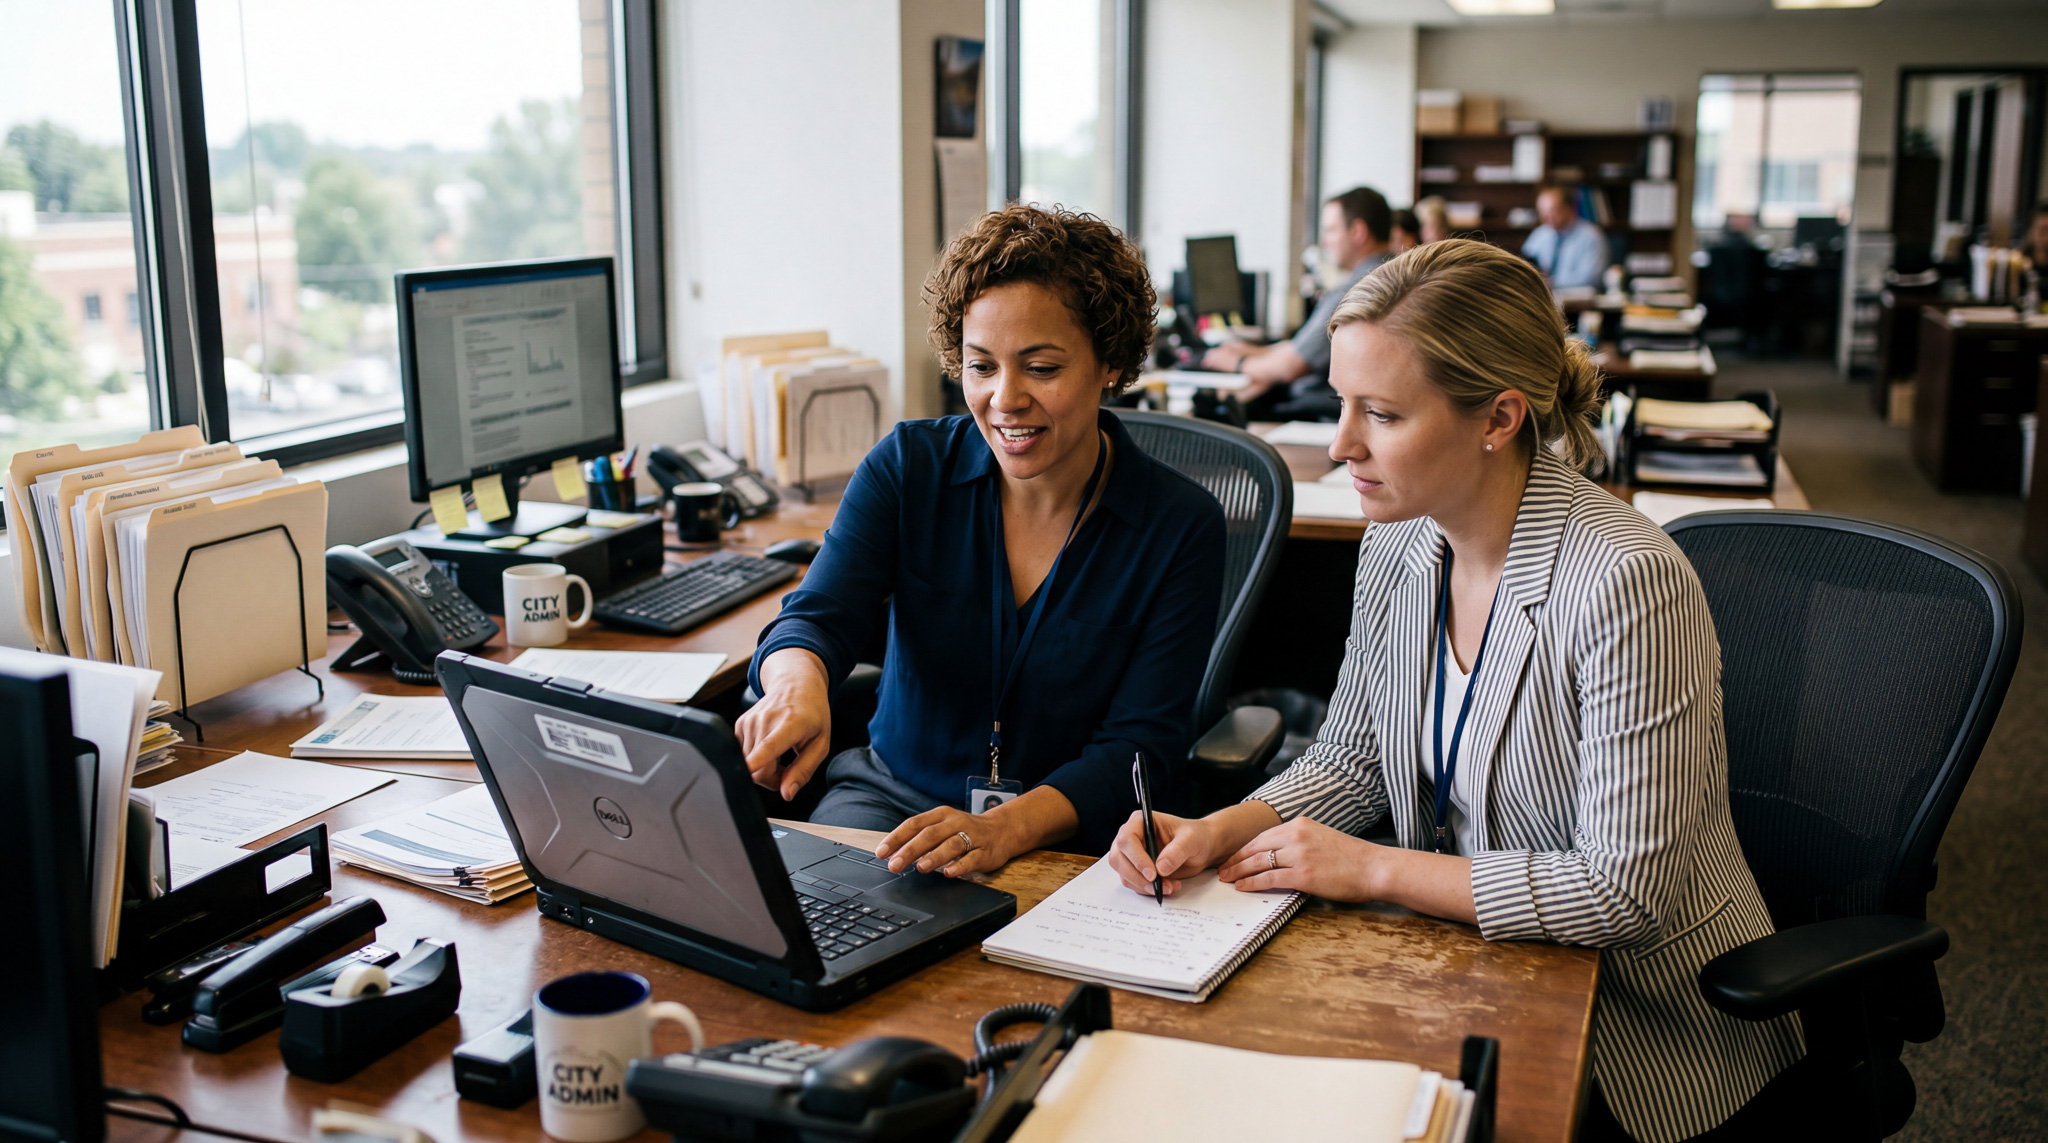
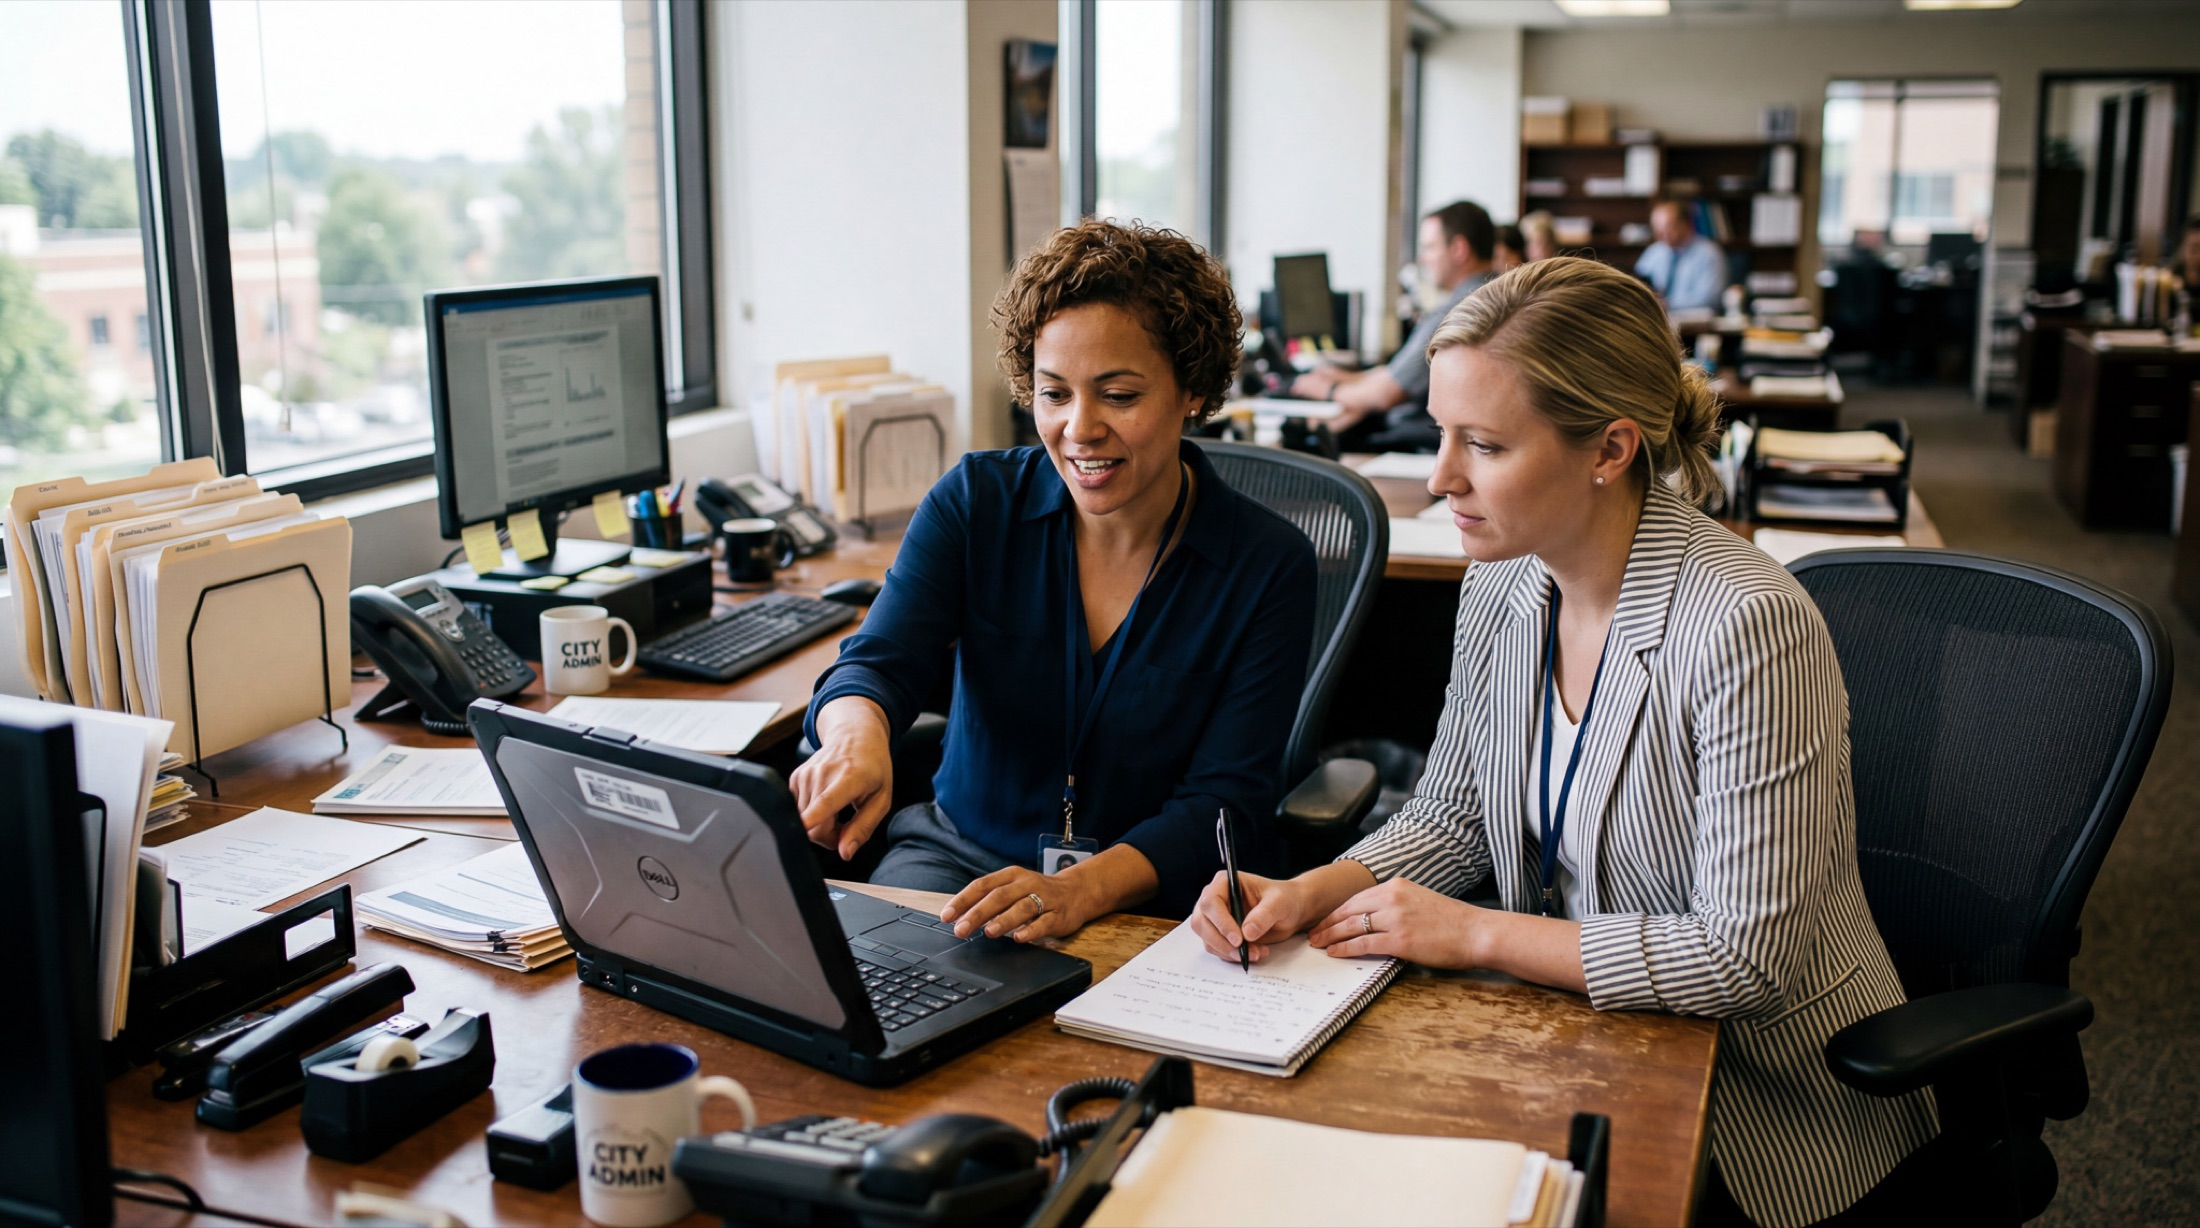
redesign(usecase): Vollbild-Motiv + kompakte Glas-Zeilen statt Großkacheln
„Wonach suchen Sie?" eröffnet die Thematik jetzt über ein Vollbild-Hintergrund-
motiv (dunkles Overlay); die 8 Use-Cases sind kompakte Glas-Zeilen (Icon +
Label + Pfeil, 2-spaltig) statt platzgreifender Kacheln → mehr Impact, weniger
Platzverbrauch.

Changed region(s): [[0.8438, 0.7655, 0.875, 0.8268]]

diff --git a/src/components/blocks/home/UseCaseEntry.tsx b/src/components/blocks/home/UseCaseEntry.tsx
@@ -1,3 +1,4 @@
+import Image from "next/image";
 import Link from "next/link";
 import { ArrowRight } from "lucide-react";
 
@@ -12,11 +13,10 @@ interface UseCaseEntryProps {
 }
 
 /**
- * Problem-/Use-Case-Einstieg als plakatives Bento-Grid.
- *
- * „Behörden suchen nicht nach einem Tooltyp, sondern nach einem Problem."
- * Große, klar abgegrenzte Kacheln mit Icon-Chip + Problem-Statement —
- * scanbar, fingerfreundlich, zielgruppengerecht proportioniert.
+ * Problem-/Use-Case-Einstieg — die Thematik wird groß über ein Vollbild-Motiv
+ * eröffnet; darüber kompakte, scanbare Glas-Zeilen (Icon + Problem-Statement)
+ * statt großer Kacheln. „Behörden suchen nach einem Problem, nicht nach einem
+ * Tooltyp."
  */
 export function UseCaseEntry({
   eyebrow,
@@ -25,49 +25,62 @@ export function UseCaseEntry({
   useCases,
 }: UseCaseEntryProps) {
   return (
-    <section className="container mx-auto px-4 sm:px-6 lg:px-10 py-12 lg:py-16">
-      <header className="max-w-2xl space-y-3 mb-8 lg:mb-10">
-        <div className="font-mono text-[11px] font-bold uppercase tracking-[0.18em] text-brand">
-          {eyebrow}
-        </div>
-        <h2
-          style={{ lineHeight: 1.05 }}
-          className="font-serif text-[clamp(28px,3.4vw,42px)] font-normal tracking-tight text-dark"
-        >
-          {title}
-        </h2>
-        {description && (
-          <p className="font-sans text-[16px] leading-[1.65] text-mid">
-            {description}
-          </p>
-        )}
-      </header>
+    <section className="relative isolate overflow-hidden">
+      {/* Vollbild-Motiv im Hintergrund */}
+      <Image
+        src="/brand/Images/magnific_two-municipal-employees-s_jSQglw9LD0.jpg"
+        alt=""
+        fill
+        sizes="100vw"
+        className="object-cover"
+        aria-hidden
+      />
+      <div aria-hidden className="absolute inset-0 bg-dark/72" />
 
-      <div className="grid gap-4 sm:grid-cols-2 lg:grid-cols-4">
-        {useCases.map((uc) => (
-          <Link
-            key={uc.label}
-            href={uc.href}
-            className="group flex flex-col justify-between gap-6 rounded-2xl border border-border bg-white p-5 lg:p-6 min-h-[140px] transition-colors hover:border-brand hover:bg-cream/40"
+      <div className="relative container mx-auto px-4 sm:px-6 lg:px-10 py-16 lg:py-24">
+        <header className="max-w-2xl space-y-3">
+          <div className="flex items-center gap-2 font-mono text-[11px] font-bold uppercase tracking-[0.2em] text-white/70">
+            <span aria-hidden className="h-1.5 w-1.5 rounded-full bg-accent" />
+            {eyebrow}
+          </div>
+          <h2
+            style={{ lineHeight: 1.05 }}
+            className="font-serif text-[clamp(30px,3.8vw,48px)] font-normal tracking-tight text-white"
           >
-            <span
-              aria-hidden
-              className="flex h-12 w-12 items-center justify-center rounded-xl bg-brand-light text-brand-dark"
+            {title}
+          </h2>
+          {description && (
+            <p className="font-sans text-[16px] leading-[1.65] text-white/80">
+              {description}
+            </p>
+          )}
+        </header>
+
+        {/* Kompakte Glas-Zeilen */}
+        <div className="mt-10 grid gap-3 sm:grid-cols-2">
+          {useCases.map((uc) => (
+            <Link
+              key={uc.label}
+              href={uc.href}
+              className="group flex items-center gap-3 rounded-xl border border-white/15 bg-white/10 px-4 py-3.5 backdrop-blur-sm transition-colors hover:bg-white/20"
             >
-              <BrandIcon name={uc.icon} size={24} />
-            </span>
-            <div className="flex items-end justify-between gap-3">
-              <span className="font-serif text-[19px] font-normal leading-[1.15] text-dark group-hover:text-brand-dark transition-colors">
+              <span
+                aria-hidden
+                className="flex h-10 w-10 flex-shrink-0 items-center justify-center rounded-lg bg-white/15 text-white"
+              >
+                <BrandIcon name={uc.icon} size={20} />
+              </span>
+              <span className="flex-1 font-ui text-[14.5px] font-medium text-white">
                 {uc.label}
               </span>
               <ArrowRight
-                size={17}
-                className="flex-shrink-0 mb-0.5 text-soft transition-all group-hover:translate-x-0.5 group-hover:text-brand"
+                size={16}
+                className="flex-shrink-0 text-white/55 transition-all group-hover:translate-x-0.5 group-hover:text-white"
                 aria-hidden
               />
-            </div>
-          </Link>
-        ))}
+            </Link>
+          ))}
+        </div>
       </div>
     </section>
   );